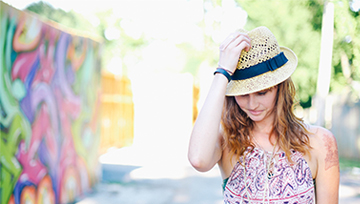
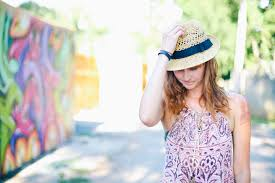
Fix image height bug

diff --git a/assets/css/main.css b/assets/css/main.css
@@ -615,6 +615,10 @@ footer .copyright_payment .footer_payment div{
 }
 
 @media only screen and (min-width: 320px) and (max-width: 600px) {
+	.img-content{
+	 	width: 100%;
+	 	height: 18.1rem;
+	 }
 	.header-cart{
 		display: none;
 	}
